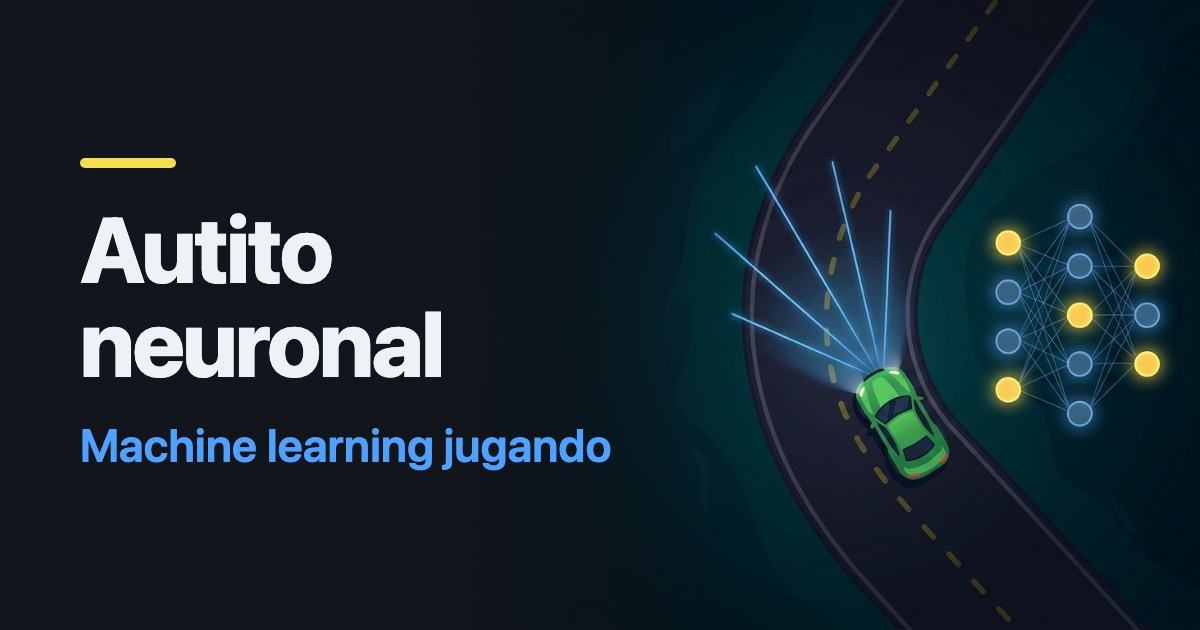
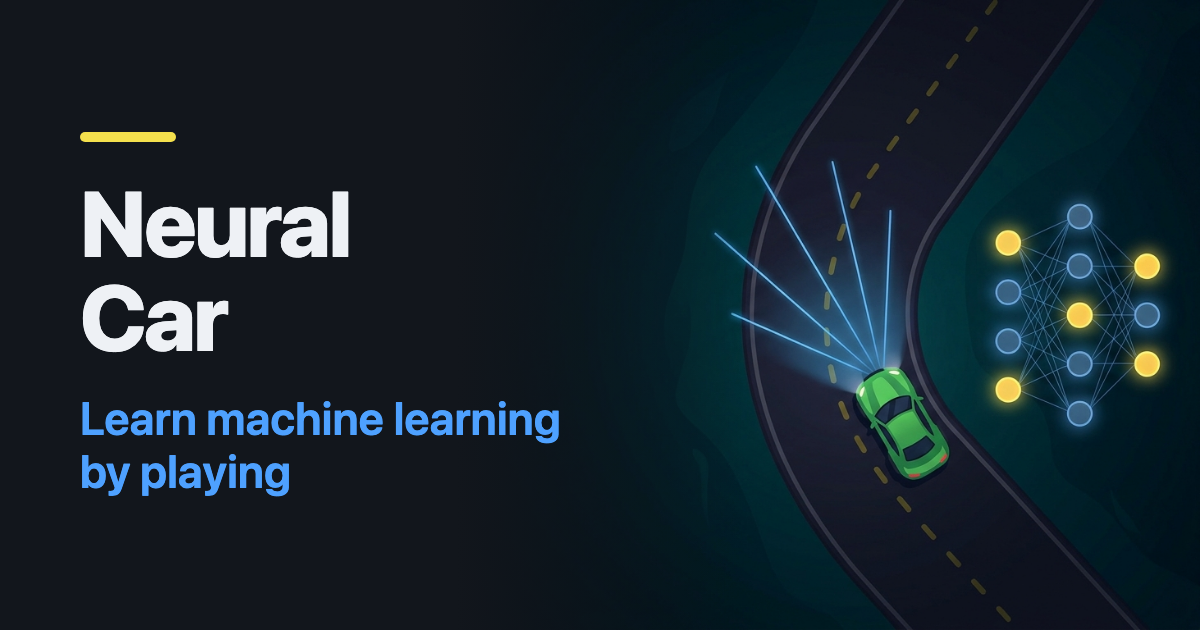
Vista previa para compartir en inglés
Título «Neural Car: Learn Machine Learning by Playing», descripción,
og:locale en_US (es_AR como alternativo) e imagen con el texto en inglés.

Changed region(s): [[0.0617, 0.3016, 0.37, 0.6032], [0.0617, 0.6333, 0.5242, 0.7841], [0.0617, 0.2111, 0.1542, 0.2714]]

diff --git a/index.html b/index.html
@@ -3,21 +3,22 @@
 <head>
   <meta charset="utf-8">
   <meta name="viewport" content="width=device-width, initial-scale=1">
-  <title>Autito neuronal: machine learning jugando</title>
-  <meta name="description" content="Un laboratorio interactivo para entender cómo aprende una red neuronal, con un autito que aprende a manejar. Sin instalar nada.">
+  <title>Neural Car: Learn Machine Learning by Playing</title>
+  <meta name="description" content="An interactive lab to see how a neural network learns, with a little car that teaches itself to drive. Nothing to install.">
   <meta name="theme-color" content="#12161c">
 
   <!-- Vista previa al compartir el enlace (Open Graph: LinkedIn, Facebook, WhatsApp; Twitter/X lee lo mismo).
        og:image y og:url van con URL absoluta: los rastreadores no resuelven rutas relativas. -->
   <meta property="og:type" content="website">
-  <meta property="og:locale" content="es_AR">
+  <meta property="og:locale" content="en_US">
+  <meta property="og:locale:alternate" content="es_AR">
   <meta property="og:url" content="https://andresgardiol.github.io/machine-learning-demo/">
-  <meta property="og:title" content="Autito neuronal: machine learning jugando">
-  <meta property="og:description" content="Un laboratorio interactivo para entender cómo aprende una red neuronal, con un autito que aprende a manejar. Sin instalar nada.">
+  <meta property="og:title" content="Neural Car: Learn Machine Learning by Playing">
+  <meta property="og:description" content="An interactive lab to see how a neural network learns, with a little car that teaches itself to drive. Nothing to install.">
   <meta property="og:image" content="https://andresgardiol.github.io/machine-learning-demo/assets/og-image.png">
   <meta property="og:image:width" content="1200">
   <meta property="og:image:height" content="630">
-  <meta property="og:image:alt" content="Un autito verde visto desde arriba en una ruta oscura, con haces de sensores celestes y una red neuronal de nodos amarillos y celestes. Texto: Autito neuronal, machine learning jugando.">
+  <meta property="og:image:alt" content="A green car seen from above on a dark road, with blue sensor beams and a neural network of yellow and blue nodes. Text: Neural Car, learn machine learning by playing.">
   <meta name="twitter:card" content="summary_large_image">
 
   <link rel="icon" href="assets/favicon.svg" type="image/svg+xml">
